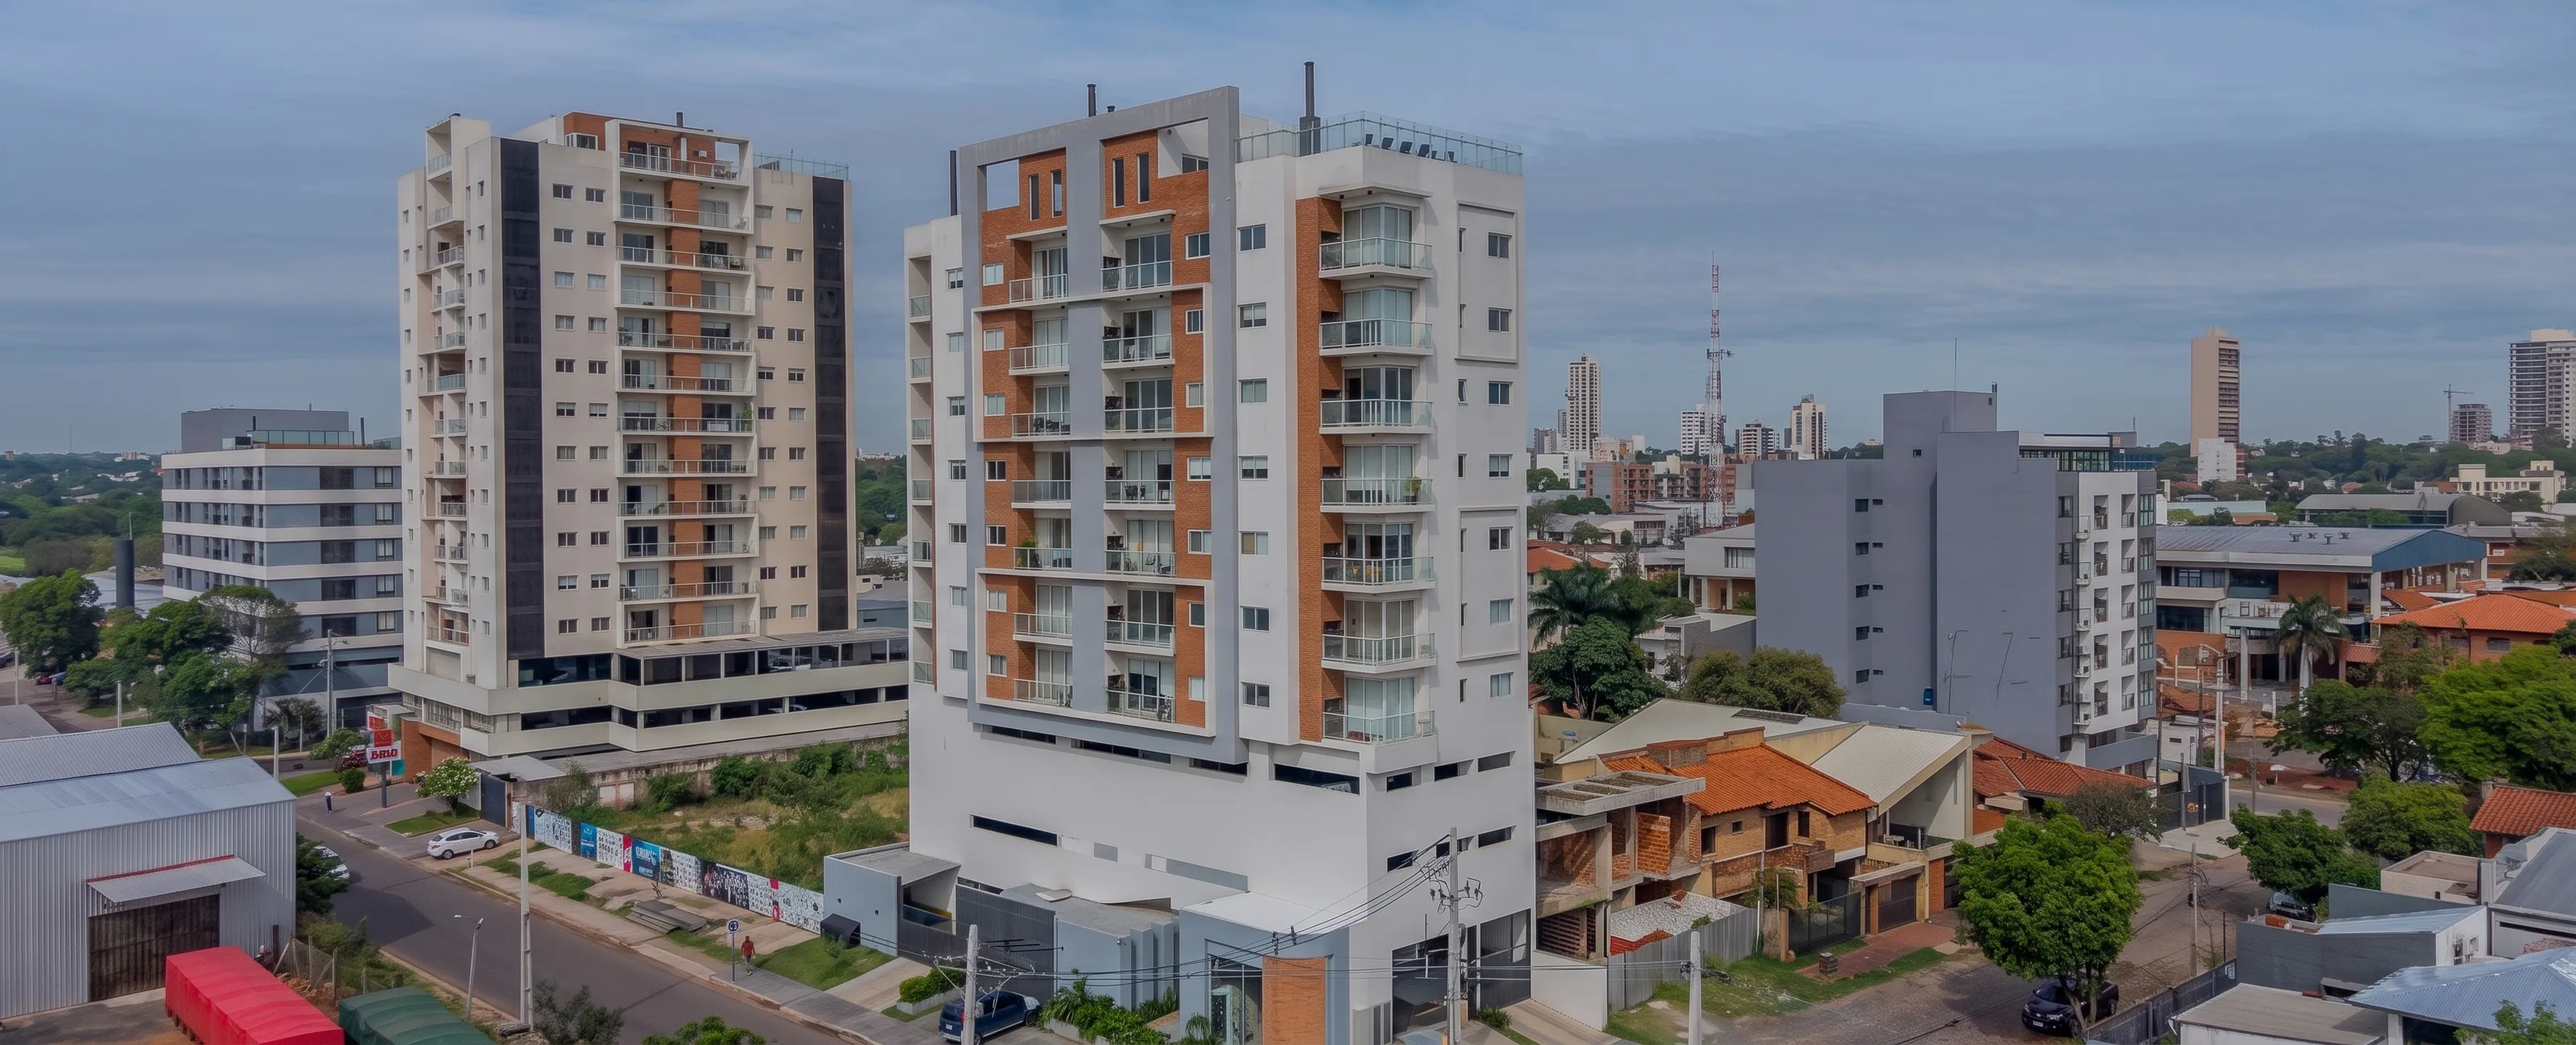
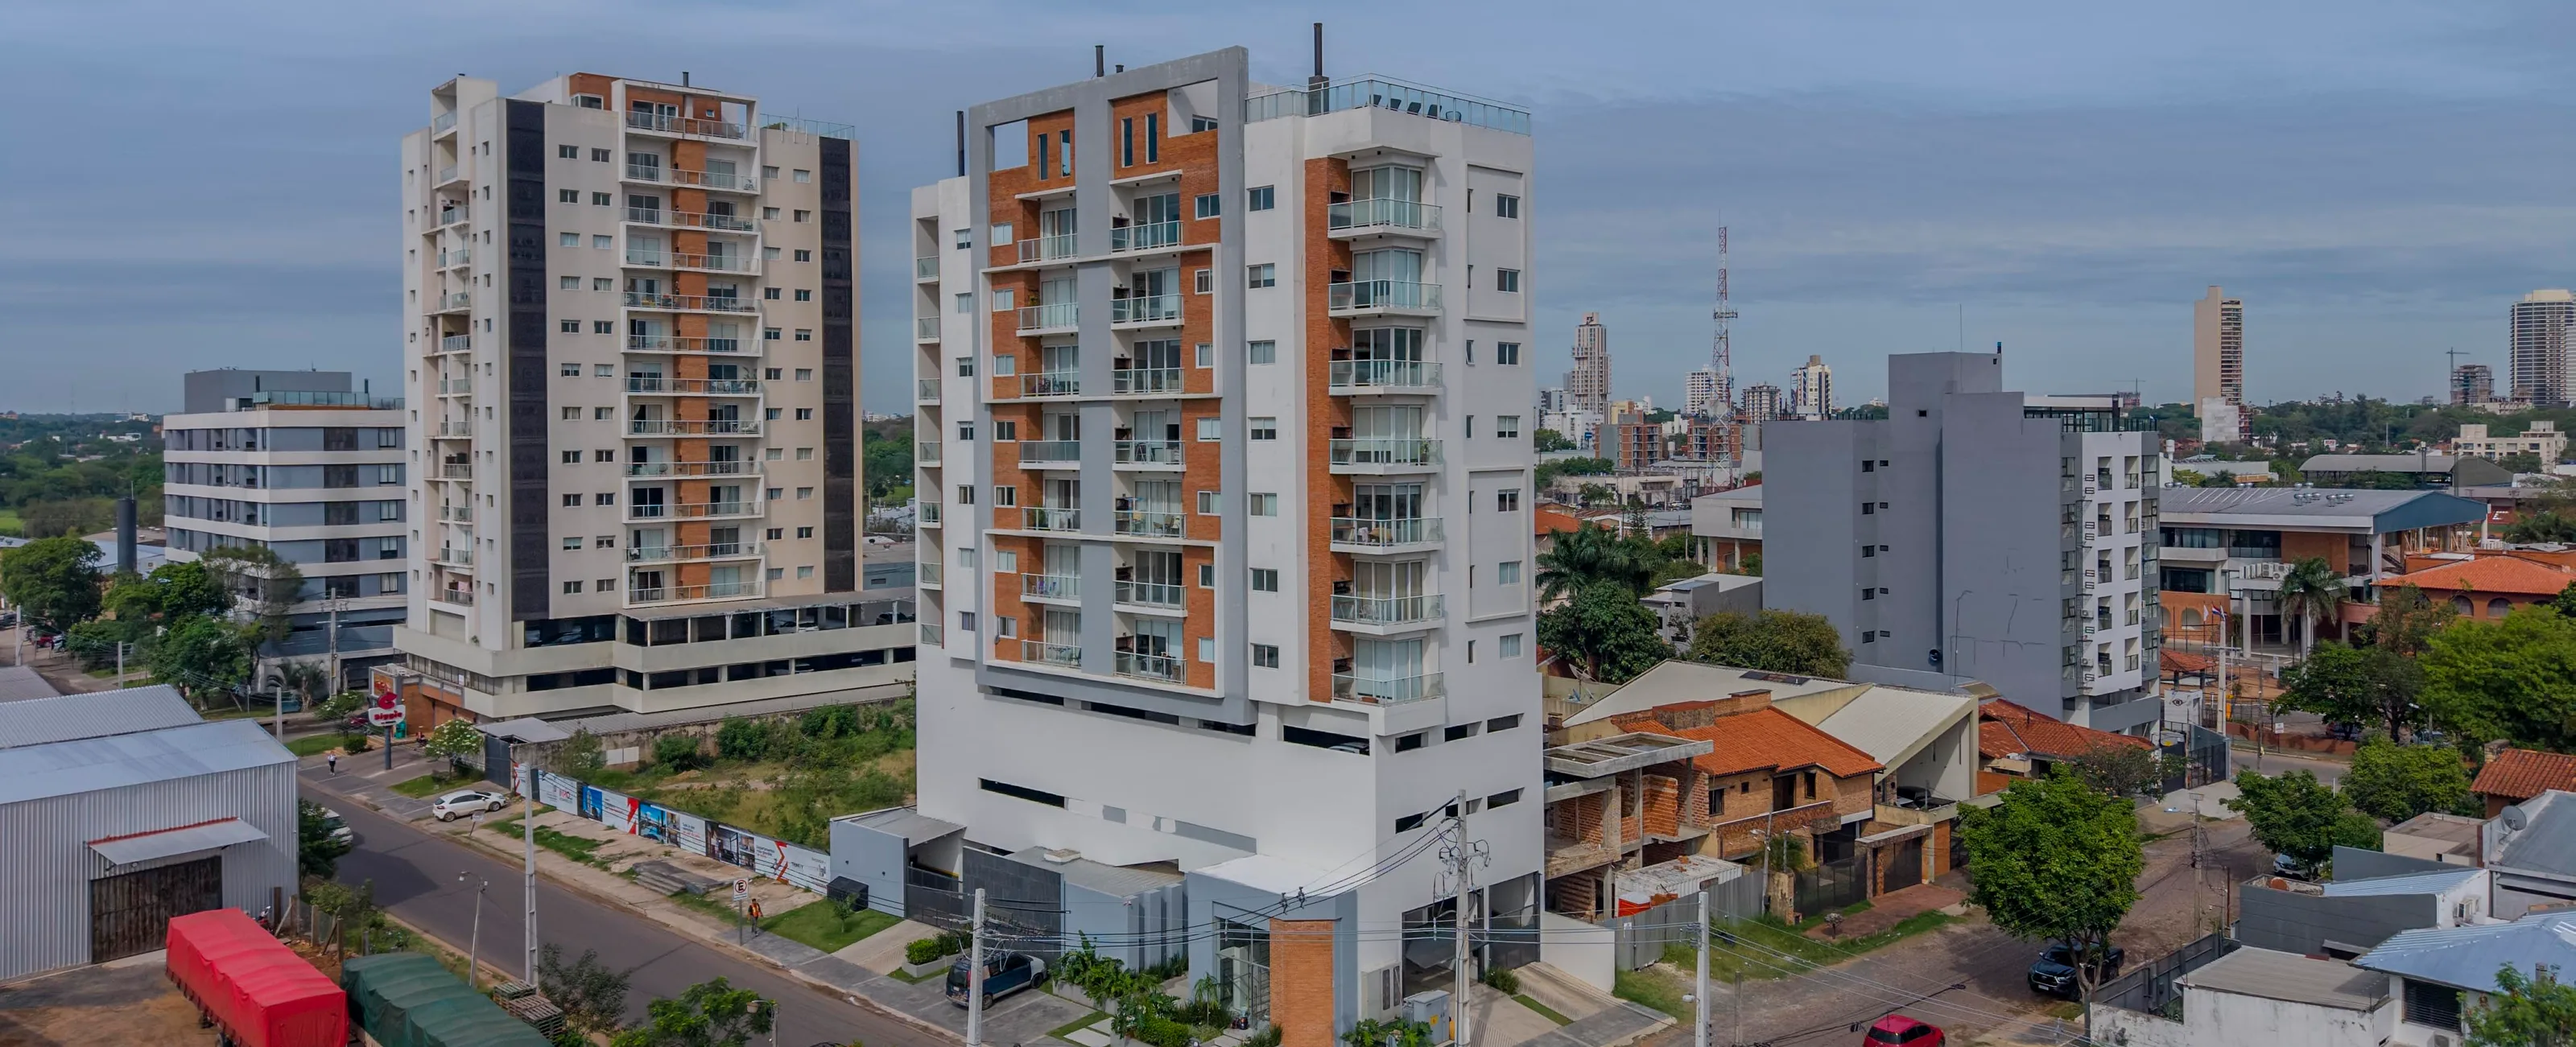
feat: update Trinity 3 photo with cropped drone shot

diff --git a/src/content/home/071-trinity-3-home.html b/src/content/home/071-trinity-3-home.html
@@ -3,7 +3,7 @@
     <div style="grid-column:1/6"><span class="t-label mid" data-r>Proyecto 00 · Entregado · Trinity Towers</span><h2 class="name" data-r style="margin-top:12px">Trinity 3</h2></div>
     <p class="t-body right" style="grid-column:7/13" data-r>28 departamentos de dos dormitorios (62 a 80 m²) con azotea, piscina panorámica, quincho climatizado y gimnasio, a pasos del Club Internacional de Tenis.</p>
   </div>
-  <div class="feature tall hf" data-r="clip"><!--ribbon--><a href="/trinity-3/" aria-label="Ver Trinity 3"><img src="assets/trinity3_panoramica.webp" alt="Trinity 3 junto a las demás torres de Trinity Towers, a pasos del Club Internacional de Tenis" data-p="0.1" style="--pos:40% 50%" loading="lazy"></a></div>
+  <div class="feature tall hf" data-r="clip"><!--ribbon--><a href="/trinity-3/" aria-label="Ver Trinity 3"><img src="assets/trinity3_panoramica.webp" alt="Trinity 3 junto a las demás torres de Trinity Towers, a pasos del Club Internacional de Tenis" data-p="0.1" style="--pos:47% 30%" loading="lazy"></a></div>
   <div class="pad acts" data-r><a class="lnk big" href="/trinity-3/">Ver proyecto →</a></div>
   <div class="tail"></div>
 </section>
